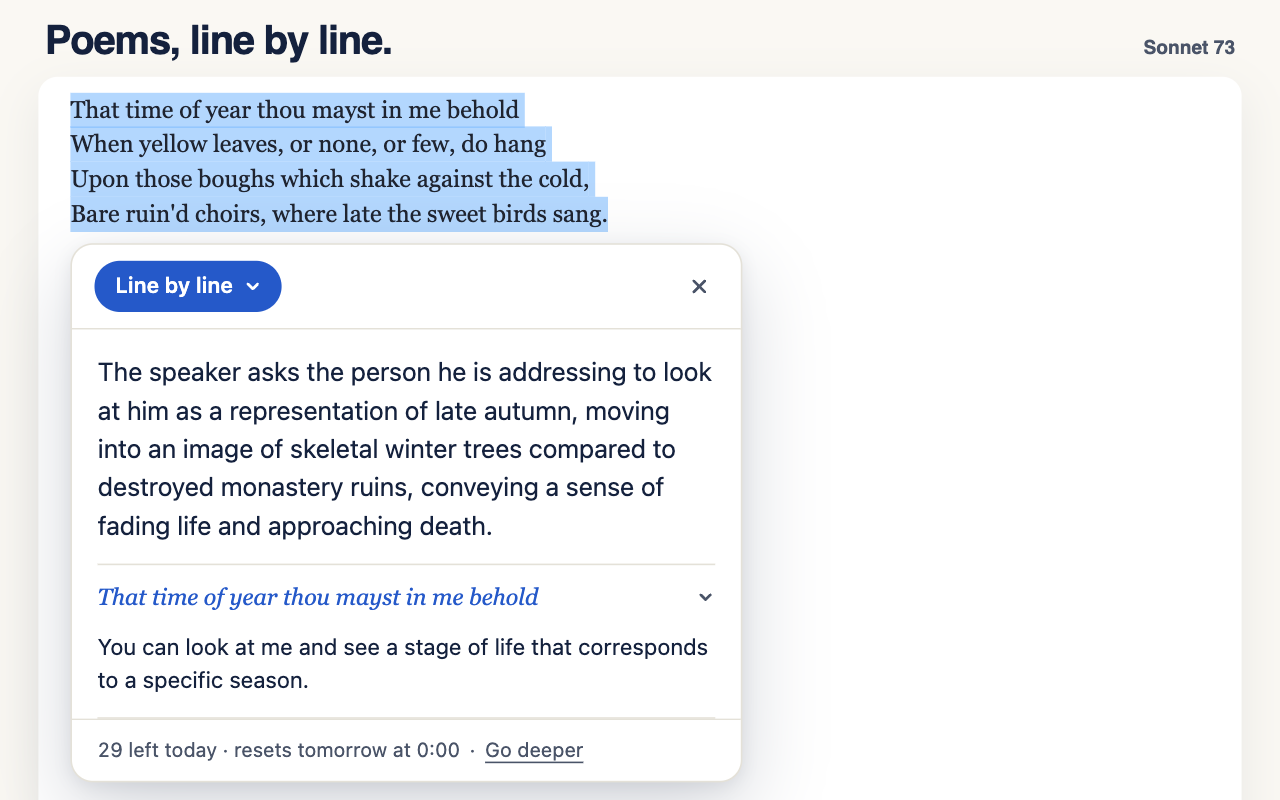
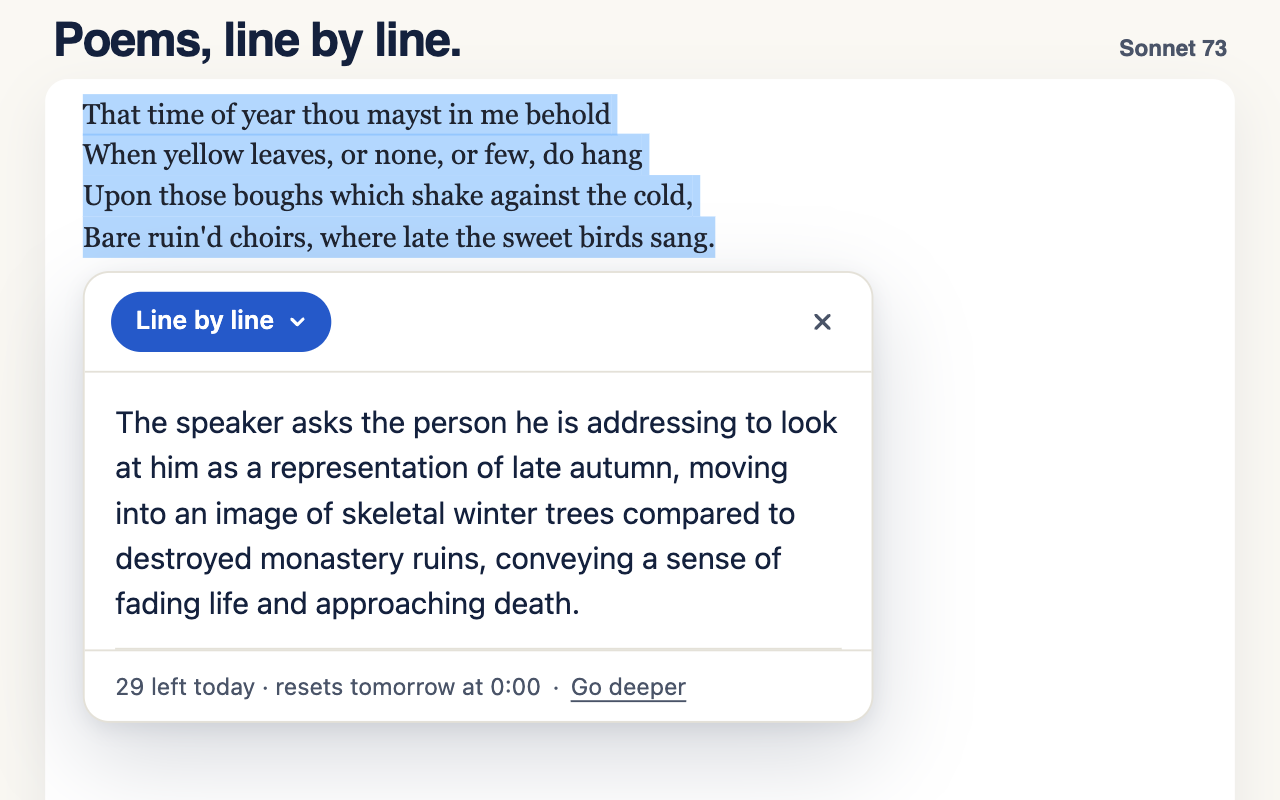
Draw all five store screenshots with one layout
Shots 1 and 5 had been zoomed in and 2 to 4 hadn't, so the set looked
mismatched. All five now share one zoom, caption and source label. The zoom
is the largest at which every answer card still fits inside the frame.

diff --git a/docs/CHANGES-EXPLAINED.md b/docs/CHANGES-EXPLAINED.md
@@ -2292,3 +2292,39 @@ A: Window height times pixel ratio has to be a whole number of pixels. A
 460-wide window gives a height of 287.5, rounded to 288, and 288 x 1280/460
 is 801.4, rounded to 801. A 448-wide window gives exactly 280, and 280 x
 1280/448 is exactly 800.
+
+## Store screenshots: one layout for all five
+
+**What changed.** After shots 1 and 5 were zoomed, the five no longer looked
+like a set: two had large text, three had small text, and shot 1 had no
+source label. All five are now drawn the same way: the same zoom, the same
+caption in the top left, and the source label in the top right ("A plan for
+last summer" on shot 1). Each is exactly 1280x800.
+
+**Why not shot 5's zoom for all five.** The answer card can grow to 70% of
+the browser window's height and always opens below the selection when there
+is no room above it. At shot 5's zoom, the caption plus a four- or five-line
+passage left less room than that, so the cards in shots 2 to 4 ran off the
+bottom of the image. Shot 4's summary alone didn't fit. The chosen zoom is a
+little smaller, 88% of shot 5's, and the browser window is made shorter
+than the image. The card picks the height it would really use in that window,
+which keeps it, and its whole summary, inside the frame.
+
+**What breaks without it.** A store listing whose screenshots look like they
+came from different products, or cards cut off at the bottom edge.
+
+**Interview questions**
+
+*Q: Why can't you just make everything bigger until it fills the frame?*
+A: Because the card's size depends on the window, not the image. Zooming in
+means a smaller window, and the card takes a share of that window's height.
+The passage above it doesn't shrink with the window, so past some zoom level
+the two together are taller than the window. The fix is to find the largest
+zoom where the tallest case still fits, and use it for every shot.
+
+*Q: How did you check that every card fits instead of eyeballing it?*
+A: The capture script reads the card's position from inside the extension's
+closed shadow root through the Chrome DevTools Protocol. For each shot it
+checks that the card's bottom edge is inside the frame and that the summary
+isn't cut off by the card's scroll area. It printed a pass or fail line per
+shot, and I tried several zoom levels until all five passed.

diff --git a/store-assets/UPLOAD-0.3.0.md b/store-assets/UPLOAD-0.3.0.md
@@ -47,13 +47,19 @@ answer was on the card. Its server returned the saved real answers from
 card shows only the summary, as on the site. The footer shows the reset time
 as "0:00", because the capture browser used a 24-hour clock.
 
-Shots 1 and 5 are zoomed so the content fills the frame. In shot 1 the
-paragraph ends at the selection, so the pill sits on clear space instead of
-covering the next line. The pill shows
-"Ctrl+Shift+E", which is what Chrome reports on Windows and Linux, most of
-the audience. It was captured on a Mac, from a capture-only copy of the
-extension set to report that shortcut. The extension shows Chrome's own text
-for the shortcut, so it reads "Ctrl+Shift+E", not the film's "Ctrl⇧E".
+All five share one layout: the same zoom, caption and source label. They
+were drawn in a 680-pixel-wide browser window at 1280/680 pixel density, so
+each is exactly 1280x800. The window is 340 pixels tall, shorter than the
+425-pixel frame. The card sizes itself to the window, up to 70% of it, so it
+stays fully in frame below the passage. The frame also shows the page below
+the window. Shot 1's paragraph ends at the selection, so the pill sits on clear
+space instead of covering the next line.
+
+The pill shows "Ctrl+Shift+E", which is what Chrome reports on Windows and
+Linux, most of the audience. It was captured on a Mac, from a capture-only
+copy of the extension set to report that shortcut. The extension shows
+Chrome's own text for the shortcut, so it reads "Ctrl+Shift+E", not the
+film's "Ctrl⇧E".
 
 ## 5. Manifest: 0.2.2 to 0.3.0
 | Change | New permission or warning? |
